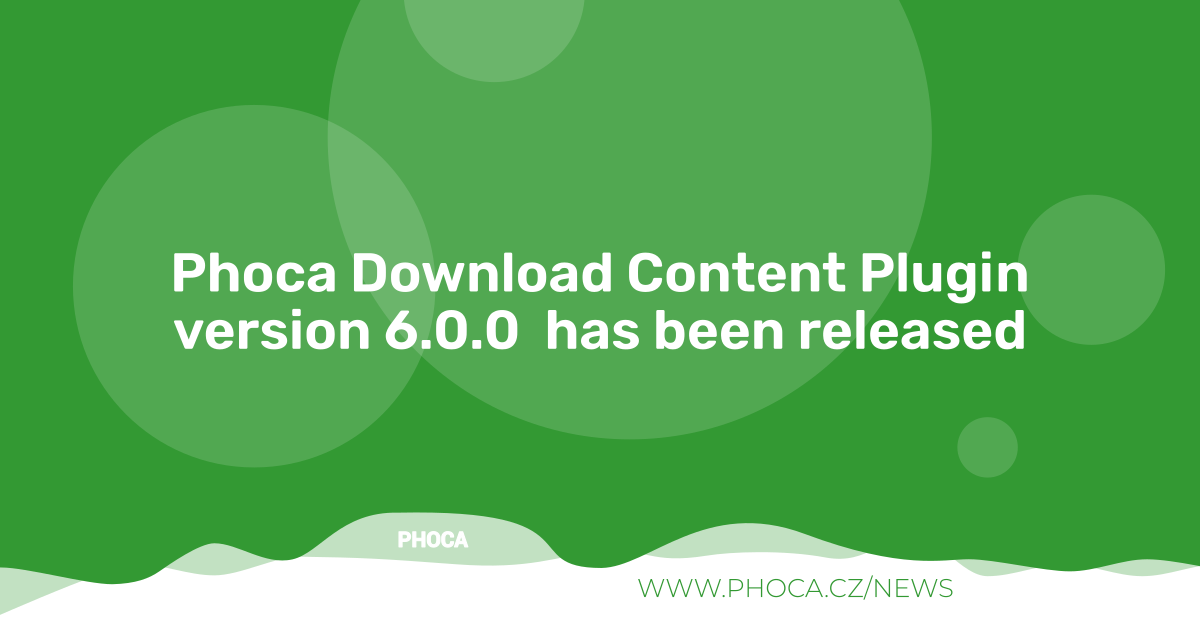
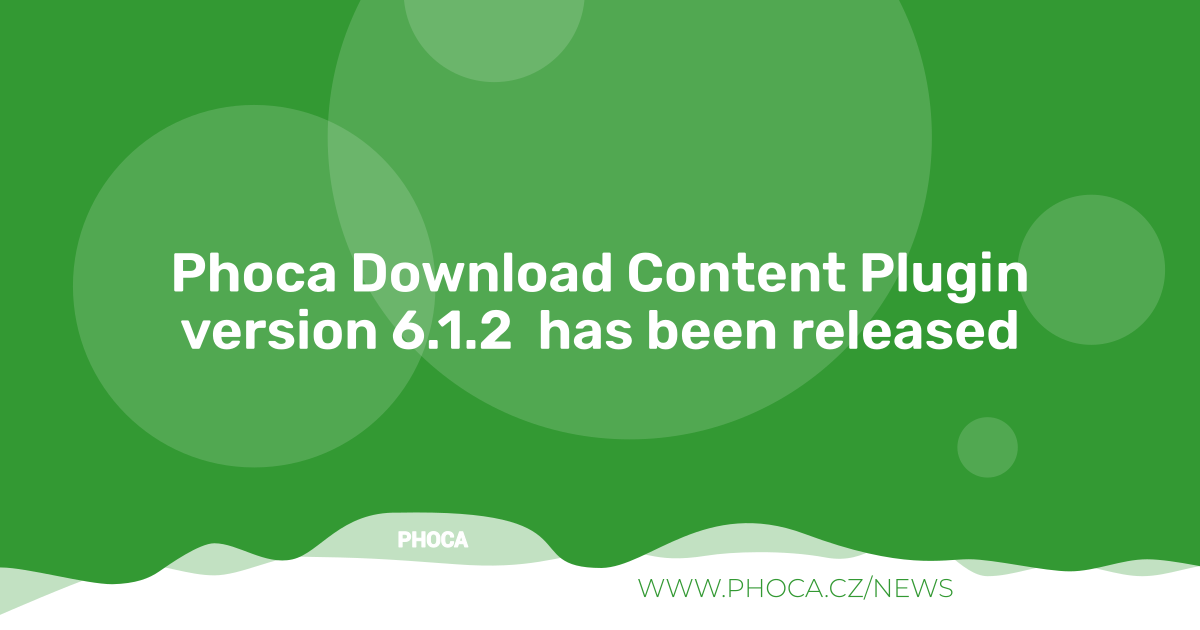
6.1.2

Changed region(s): [[0.1233, 0.4825, 0.8633, 0.573]]

diff --git a/README.MD b/README.MD
@@ -27,79 +27,68 @@ Our compliance with the principles of free and open-source software is establish
 
 *This repository is a shared community resource dedicated to the global open-source ecosystem.*
 
+### Community Feedback & Contributions
 
-## Project page
+We welcome your feedback and active involvement. You can join the development and follow the progress on public, independent GitHub pages at [https://github.com/PhocaCz](https://github.com/PhocaCz).
+Any feedback, bug reports, feature suggestions, or code improvements can be submitted transparently via **GitHub Issues** or **Pull Requests** within the respective repository.
 
-[Phoca Download Content Plugin](https://www.phoca.cz/phocadownload-plugin)
+### Accompanying External Resources
 
-[Phoca Download Info Page](https://www.phoca.cz/project/phocadownload-joomla-download)
+If you need additional information beyond this GitHub repository, further documentation, updates, and community channels are available on the following external websites:
 
+#### External Project Information
 
-
-## Documentation
-
-[Documentation](https://www.phoca.cz/documentation/category/51-phoca-download-plugin)
-
-
-
-
-
-## Support
-
-[Phoca Forum](https://www.phoca.cz/forum)
-
-:bell: [Phoca Forum RSS](https://www.phoca.cz/forum/app.php/feed)
+- [Phoca Download Content Plugin](https://www.phoca.cz/phocadownload-plugin)
+- [Phoca Download Info Page](https://www.phoca.cz/project/phocadownload-joomla-download)
+- [Project is listed on Joomla Extensions Directory](https://extensions.joomla.org/)
+- [Project is listed on Phoca download directory](https://www.phoca.cz/download)
 
 
+#### External Documentation
 
-## News
-
-[Phoca News](https://www.phoca.cz/news)
-
-:bell: [Phoca News RSS](https://www.phoca.cz/news?format=feed&type=rss)
-
-:bell: [Phoca Latest Releases RSS](https://www.phoca.cz/download/feed/111?format=feed&type=rss)
+- [Documentation](https://www.phoca.cz/documentation/category/51-phoca-download-plugin)
 
 
+#### External Community Support
 
-## Demo
+- [Phoca Forum](https://www.phoca.cz/forum)
+- [Joomla Forum](https://forum.joomla.org/)
+- [Joomlaportal.cz Forum - Czech](https://www.joomlaportal.cz/forum)
+- [Joomla.de Supportforum - German](https://forum.joomla.de/)
+- :bell: [Phoca Forum RSS](https://www.phoca.cz/forum/app.php/feed)
 
-[Joomla! 1.5 Demo](https://www.phoca.cz/demo/)
+
+#### External News & Feeds
+
+- [Phoca News](https://www.phoca.cz/news)
+- [Joomlaportal.cz News](https://www.joomlaportal.cz/novinky)
+- :bell: [Phoca News RSS](https://www.phoca.cz/news?format=feed&type=rss)
+- :bell: [Phoca Latest Releases RSS](https://www.phoca.cz/download/feed/111?format=feed&type=rss)
 
 
+#### Demo
 
-## Version (Joomla! 3.x)
+- [Joomla! 1.5 Demo](https://www.phoca.cz/demo/)
 
+### Version (Joomla! 3.x - no longer supported)
 3.2.1
-
-## Version (Joomla! 4.x)
-
+### Version (Joomla! 4.x - no longer supported)
 4.0.6
-
-## Version (Joomla! 5.x)
-
+### Version (Joomla! 5.x - no longer supported)
 5.0.0
+### Version (Joomla! 6.x)
+6.1.2
 
-
-
-## License
+### License
 
 GNU/GPL
 
-
-
 This project is open source project - feel free to contribute! Thank you.
 
-
-
-## Social Media
+### Social Media
 
 - [Phoca on Facebook](https://www.facebook.com/Phoca.cz)
-
 - [Phoca on X (Twitter)](https://twitter.com/PhocaCz)
-
 - [Phoca on YouTube](https://www.youtube.com/user/phocavideos)
-
 - [Phoca on GitHub](https://github.com/PhocaCz)
-
 - [Phoca on Reddit](https://www.reddit.com/user/PhocaCz)

diff --git a/FOSS.md b/FOSS.md
@@ -1,0 +1,13 @@
+Free and Open Source Software (FOSS) Declaration
+
+This project is developed, distributed, and maintained strictly as **Free and Open Source Software (FOSS)**. It is provided entirely outside the course of any commercial activity as an independent public resource.
+
+Our compliance with the principles of free and open-source software is established by the following structural and operational guidelines:
+
+* **Strictly Non-Commercial & Public Good:** This software is provided 100% free of charge. No commercial entities control or fund this repository, and there are no commercial monetization models, paid subscriptions, or premium paywalls associated with this codebase.
+* **Independent Volunteer Contributions:** The development, maintenance, and testing of this extension are driven entirely by independent, voluntary contributions from the global community.
+* **No Commercial Technical Support:** Technical support is not provided as a paid commercial service by the maintainers of this repository. Community assistance is available on a voluntary, non-binding basis via public forums.
+* **No Proprietary Lock-in:** The software is licensed under the copyleft GNU General Public License (GPL). You have absolute freedom to run, study, share, modify, and redistribute the code.
+* **Decentralized Infrastructure:** This codebase is hosted in a public, transparent repository on GitHub to foster open collaborative development and public peer review, ensuring safety and quality through community vigilance.
+
+*This repository is a shared community resource dedicated to the global open-source ecosystem.*
